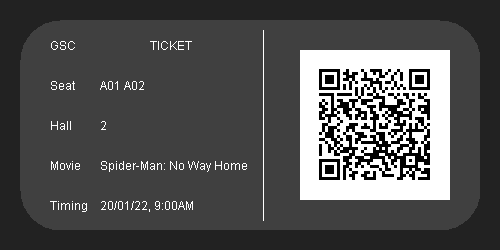
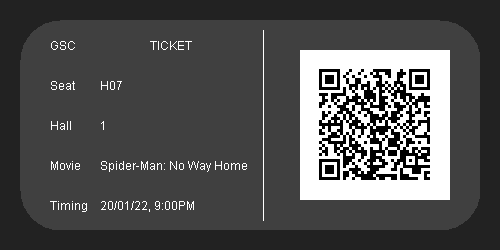
payment page && to || generate center

Changed region(s): [[0.63, 0.28, 0.87, 0.728], [0.18, 0.308, 0.3, 0.364], [0.36, 0.784, 0.39, 0.84]]

diff --git a/CinemaSwingTest1/src/cinemaswingtest1/TicketClass1.java b/CinemaSwingTest1/src/cinemaswingtest1/TicketClass1.java
@@ -170,12 +170,22 @@ public class TicketClass1 extends javax.swing.JFrame {
     }// </editor-fold>//GEN-END:initComponents
 
     private void btnBackActionPerformed(java.awt.event.ActionEvent evt) {//GEN-FIRST:event_btnBackActionPerformed
-        MovieSeat1 ms1 = new MovieSeat1();
-        ms1.setVisible(true);
-        ms1.pack();
-        ms1.setLocationRelativeTo(null);
-        ms1.setDefaultCloseOperation(JFrame.EXIT_ON_CLOSE);
-        this.dispose();
+        if (Global.hall == 1) {
+            MovieSeat1 ms1 = new MovieSeat1();
+            ms1.setVisible(true);
+            ms1.pack();
+            ms1.setLocationRelativeTo(null);
+            ms1.setDefaultCloseOperation(JFrame.EXIT_ON_CLOSE);
+            this.dispose();
+        }
+        else {
+            MovieSeat2 ms2 = new MovieSeat2();
+            ms2.setVisible(true);
+            ms2.pack();
+            ms2.setLocationRelativeTo(null);
+            ms2.setDefaultCloseOperation(JFrame.EXIT_ON_CLOSE);
+            this.dispose();
+        }
     }//GEN-LAST:event_btnBackActionPerformed
 
     private void btnNextActionPerformed(java.awt.event.ActionEvent evt) {//GEN-FIRST:event_btnNextActionPerformed

diff --git a/CinemaSwingTest1/src/cinemaswingtest1/Global.java b/CinemaSwingTest1/src/cinemaswingtest1/Global.java
@@ -10,7 +10,7 @@ public class Global {
     public static String seat_no = "";
     public static String cnt_seat = "";
     public static String ticket_class = "";
-    public static String fnb_price = "0";
+    public static String fnb_price = "";
     public static String day = "";
     public static String time = "";
     public static String Url=""; 
@@ -19,7 +19,7 @@ public class Global {
     public static int seat_movie3;
     public static int seat_movie4;
     public static int seat_movie5;
-    public static int hall = 1;
+    public static int hall;
     public static int movie_idx;
     public static int remove_movie_idx;
     public static List<Integer> booked_seat0 = new ArrayList<>();

diff --git a/CinemaSwingTest1/src/cinemaswingtest1/PaymentPage.java b/CinemaSwingTest1/src/cinemaswingtest1/PaymentPage.java
@@ -199,7 +199,7 @@ public class PaymentPage extends javax.swing.JFrame {
             } catch (IOException e) {
                     System.out.println(e.getMessage());
             }
-            boolean x = jTextField1.getText().equals("") &&jTextField2.getText().equals("")&& jTextField3.getText().equals("")&&jTextField4.getText().equals("") ;
+            boolean x = jTextField1.getText().equals("") || jTextField2.getText().equals("") || jTextField3.getText().equals("") || jTextField4.getText().equals("") ;
             
             if (!x) {
 

diff --git a/CinemaSwingTest1/src/cinemaswingtest1/StaffAddMovie.java b/CinemaSwingTest1/src/cinemaswingtest1/StaffAddMovie.java
@@ -108,6 +108,7 @@ public class StaffAddMovie extends javax.swing.JFrame {
         getContentPane().add(jLabel1, new org.netbeans.lib.awtextra.AbsoluteConstraints(0, 0, 1050, -1));
 
         pack();
+        setLocationRelativeTo(null);
     }// </editor-fold>//GEN-END:initComponents
 
     private void jButton1ActionPerformed(java.awt.event.ActionEvent evt) {//GEN-FIRST:event_jButton1ActionPerformed

diff --git a/CinemaSwingTest1/src/cinemaswingtest1/StaffFB2.java b/CinemaSwingTest1/src/cinemaswingtest1/StaffFB2.java
@@ -73,6 +73,7 @@ public class StaffFB2 extends javax.swing.JFrame {
         getContentPane().add(jLabel5, new org.netbeans.lib.awtextra.AbsoluteConstraints(0, 0, 490, 410));
 
         pack();
+        setLocationRelativeTo(null);
     }// </editor-fold>//GEN-END:initComponents
 
     private void jButton1ActionPerformed(java.awt.event.ActionEvent evt) {//GEN-FIRST:event_jButton1ActionPerformed

diff --git a/CinemaSwingTest1/src/cinemaswingtest1/StaffFB.java b/CinemaSwingTest1/src/cinemaswingtest1/StaffFB.java
@@ -95,6 +95,7 @@ public class StaffFB extends javax.swing.JFrame {
         getContentPane().add(jLabel2, new org.netbeans.lib.awtextra.AbsoluteConstraints(0, 0, 850, 650));
 
         pack();
+        setLocationRelativeTo(null);
     }// </editor-fold>//GEN-END:initComponents
 
     private void jButton1ActionPerformed(java.awt.event.ActionEvent evt) {//GEN-FIRST:event_jButton1ActionPerformed
